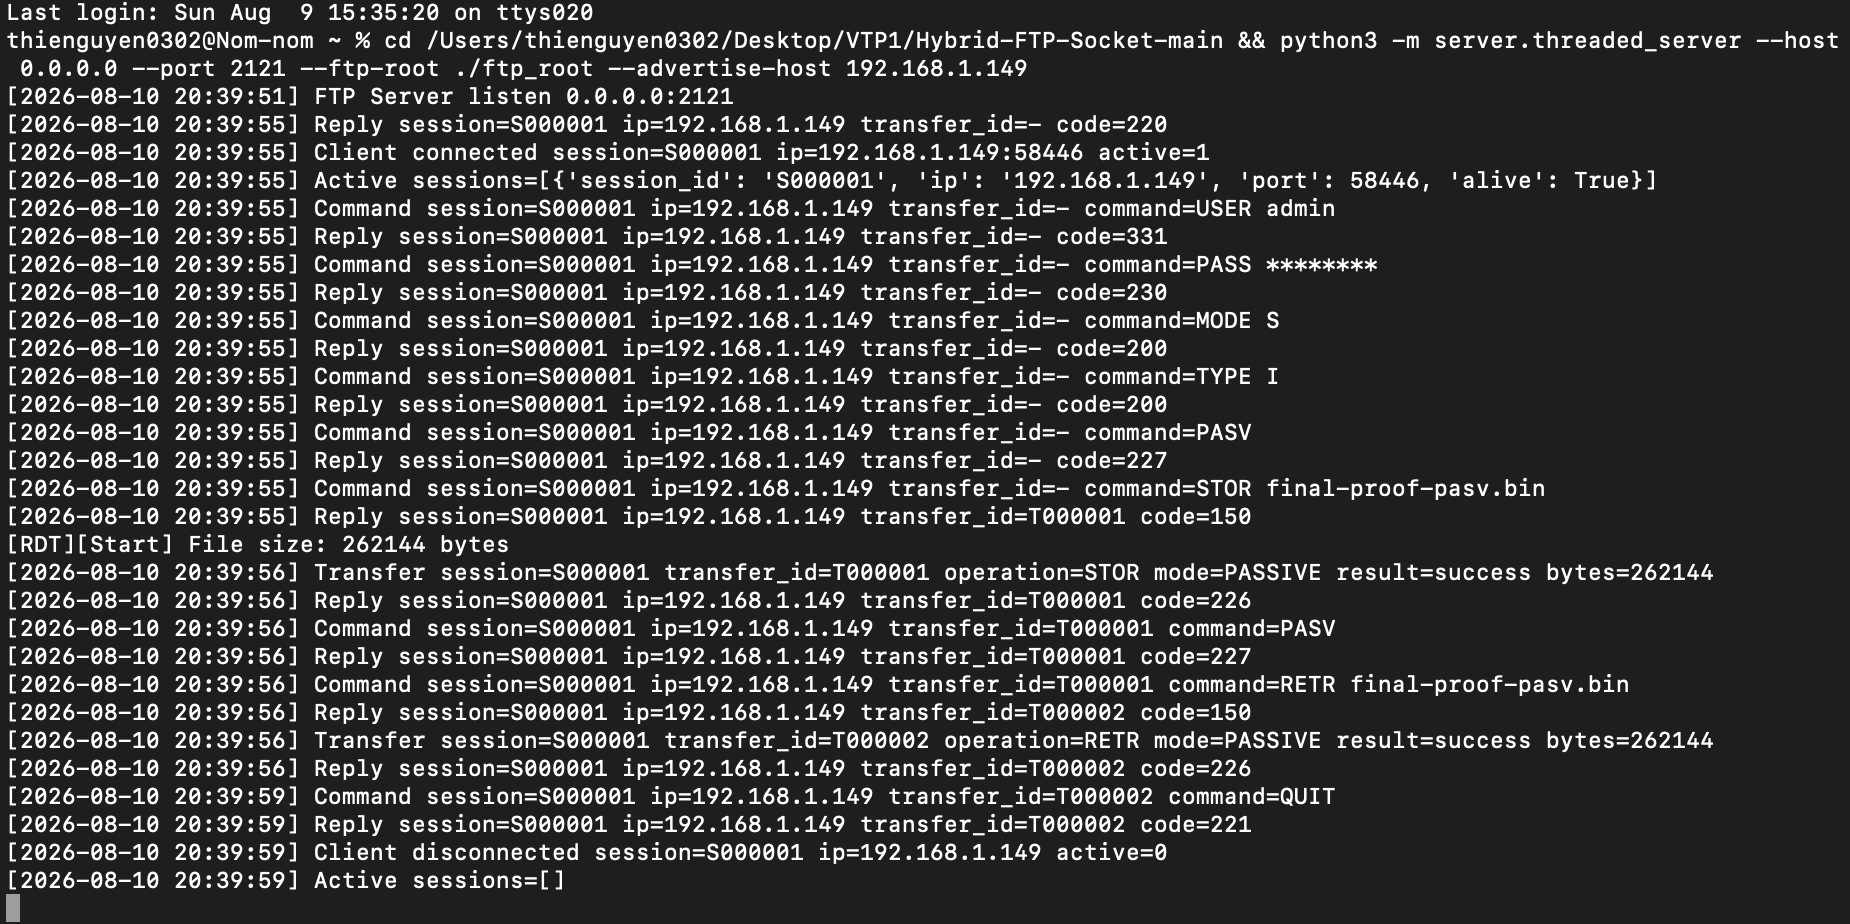
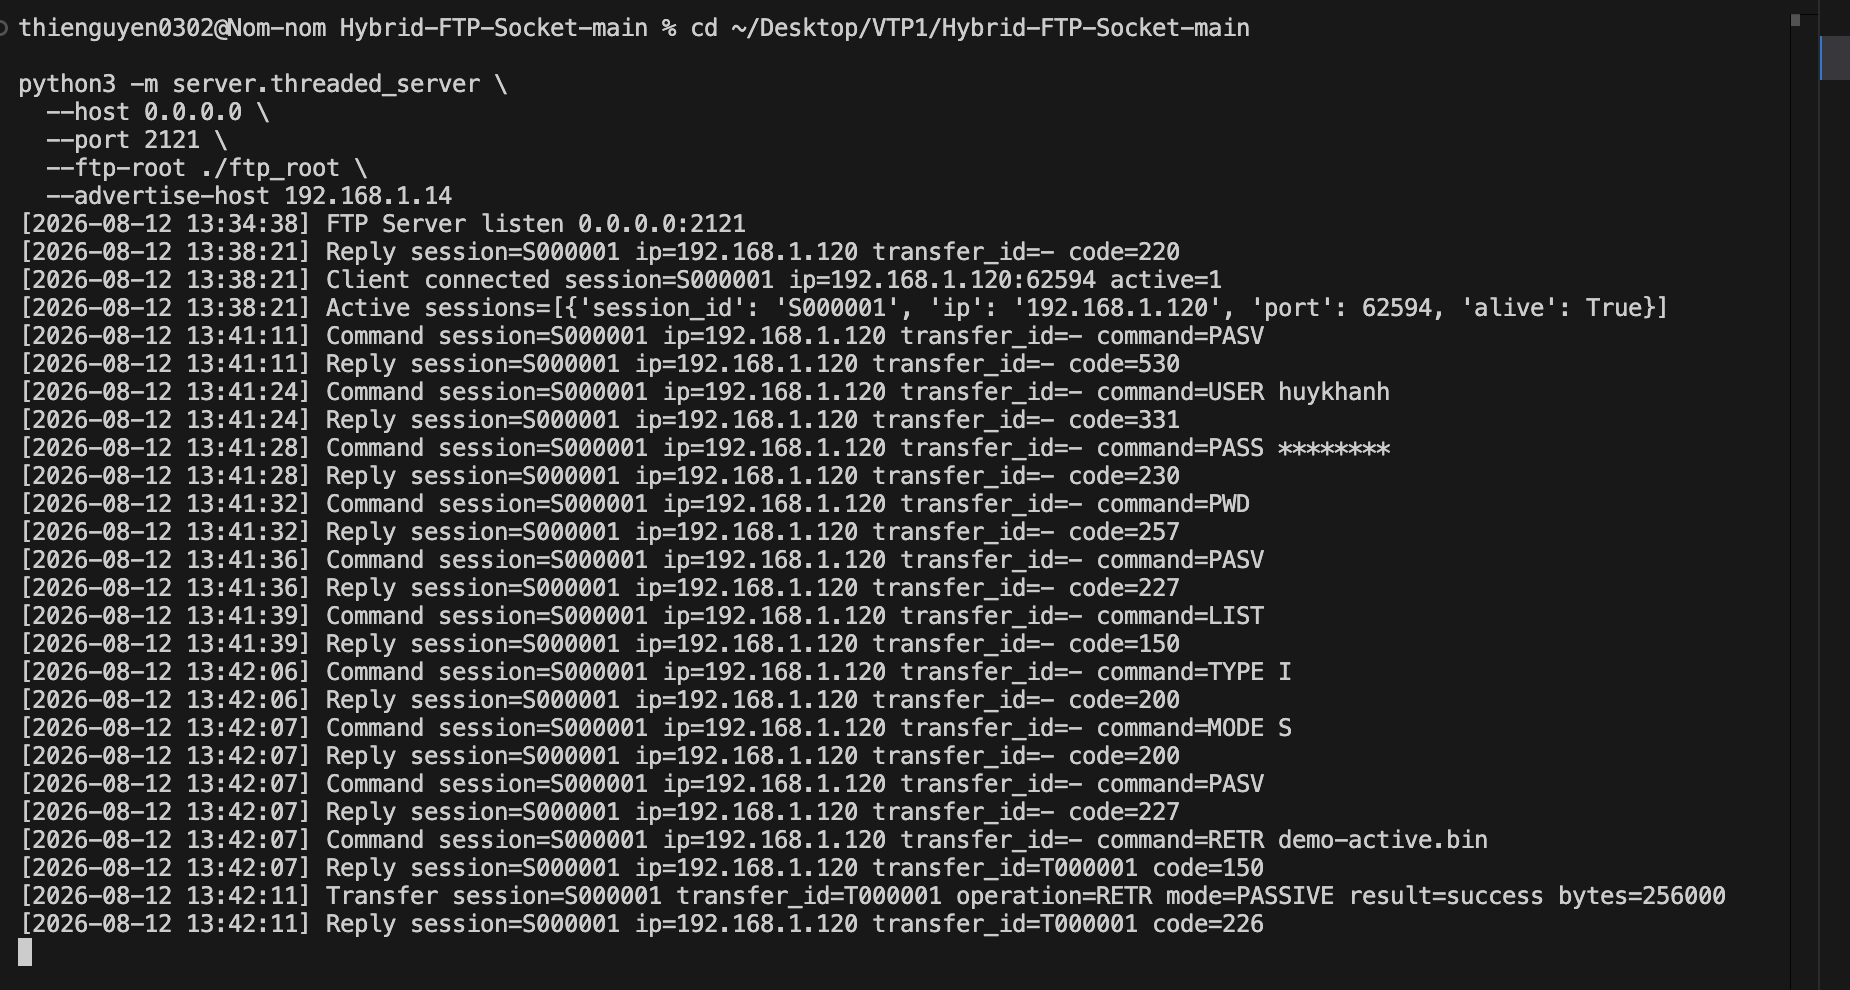
docs: update full regression evidence to 273 passed, add PASV/ACTIVE SHA-256 and concurrent-client evidence

Changed region(s): [[0.0, 0.0, 1.0, 1.0], [0.8627, 0.303, 0.8935, 0.3333]]

diff --git a/docs/report.md b/docs/report.md
@@ -493,7 +493,7 @@ three logs with these details; this summary does not replace their exact records
 
 ## 7. Application Demo Evidence
 
-![Full regression — 271 passed](evidence/screenshots/01-full-pytest-271-passed.png)
+![Full regression — 273 passed](evidence/screenshots/01-full-pytest-273-passed.png)
 *Figure: Full WSL2 regression passed; this verifies the integrated suite.*
 
 ### 7.1 TCP Control and Authentication (Role A)
@@ -673,8 +673,8 @@ with 256000 bytes, and clean disconnect with empty session list.*
 
 ### 7.3 UDP Transfer and End-to-End Evidence
 
-The recorded final regression command, `python3 -m pytest -q`, passed **271
-tests and 357 subtests in 192.88 seconds**. Focused verification additionally
+The recorded final regression command, `python3 -m pytest -q`, passed **273
+tests and 357 subtests in 182.14 seconds**. Focused verification additionally
 covered codec/command behavior (83 passed, 338 subtests), transfer-manager mode
 integration (12 passed), RDT B/C fault injection (19 passed, 11 subtests), and
 the FTP E2E mode matrix (13 passed, 8 subtests). These checks cover command and
@@ -799,7 +799,7 @@ only in `docs/project-status.md` and `docs/requirement-checklist.md`.
 | ABORT cancel/termination behavior | Verified | `tests/test_rdt.py::TestRDTProtocolLogic::test_receiver_aborts_on_abort_packet`, `docs/report-parts/technical/05-data-channel-rdt.md` |
 | Active/PASV upload/download and LAN SHA-256 integrity | Verified | `docs/evidence/final-lan-active-sha256.txt`, `docs/evidence/final-lan-pasv-sha256.txt` |
 | Post-handoff regression suite (pre-MODE baseline) | Verified | `python3 -m pytest -q` — 205 passed in 103.08s; Role C focused — 24 passed in 33.80s; `docs/evidence/final-code-fix-verification.md` |
-| MODE S/B/C functional codecs (RFC 959 §3.4) | Integrated; release evidence pending | `common/mode_codec.py`, `server/transfer_manager.py`, `client/ftp_client.py`; TYPE A/I filler, START MODE/TYPE mismatch rejection, atomic client/server paths; targeted 140 passed + 338 subtests, RDT fault 19 passed + 11 subtests, E2E 14 passed + 8 subtests, full 271 passed + 357 subtests in 192.88s; `docs/evidence/role-a-production-review-2026-08-10.md` |
+| MODE S/B/C functional codecs (RFC 959 §3.4) | Integrated; release evidence pending | `common/mode_codec.py`, `server/transfer_manager.py`, `client/ftp_client.py`; TYPE A/I filler, START MODE/TYPE mismatch rejection, atomic client/server paths; targeted 140 passed + 338 subtests, RDT fault 19 passed + 11 subtests, E2E 14 passed + 8 subtests, full 273 passed + 357 subtests in 182.14s; `docs/evidence/role-a-production-review-2026-08-10.md` |
 
 ### Final release note
 
@@ -818,7 +818,7 @@ only in `docs/project-status.md` and `docs/requirement-checklist.md`.
   decode-after-RDT integration, PASV/ACTIVE SHA-256 round-trips, STOU/APPE,
   concurrent different-mode clients and logical-byte progress are covered by
   codec/command/transfer-manager/fault-injection/E2E tests (full suite
-  **271 passed, 357 subtests in 192.88s**). The C production audit also verified
+  **273 passed, 357 subtests in 182.14s**). The C production audit also verified
   strict authentication, STAT/HELP/STOU behavior, buffered client framing,
   MODE/TYPE mismatch rejection and atomic client downloads. Role B review of
   START metadata and Role A MODE screenshots have been verified and integrated.

diff --git a/docs/screenshots.md b/docs/screenshots.md
@@ -6,7 +6,7 @@
 
 | # | File | Nội dung | Vị trí trong report.md |
 |---:|---|---|---|
-| 01 | `evidence/screenshots/01-full-pytest-271-passed.png` | Full WSL2 regression — **271 passed** | §7 (intro, figure full regression) |
+| 01 | `evidence/screenshots/01-full-pytest-273-passed.png` | Full WSL2 regression — **273 passed** | §7 (intro, figure full regression) |
 | 02 | `evidence/screenshots/02-lan-pasv-server-lifecycle.png` | LAN PASV server lifecycle (client sessions + luồng `150 → 226`) | §7.1 |
 | 03 | `evidence/screenshots/03-sha256-pasv-active.png` | So sánh SHA-256 PASV và ACTIVE (source/server/download khớp) | §7.3 |
 | 04 | `evidence/screenshots/04-three-pasv-clients.png` | Ba PASV client transfer độc lập không block nhau | §7.3 |
@@ -57,8 +57,9 @@ Mỗi ảnh được nhúng bằng block Markdown từ `docs/report.md` (đườ
 - Đã rename 2 file có khoảng trắng thừa đầu tên để link Markdown sạch:
   - ` 01-full-pytest-271-passed.png` → `01-full-pytest-271-passed.png`
   - ` 03-sha256-pasv-active.png` → `03-sha256-pasv-active.png`
-- Caption ảnh 01 dùng **271 passed** (khớp tên file thật và §8 report: full
-  **271 passed + 357 subtests in 192.88s**), không dùng 199 passed — 199 là
-  baseline lịch sử pre-MODE, không phản ánh screenshot hiện tại.
+- Caption ảnh 01 dùng **273 passed** (khớp tên file thật và §7/§8 report: full
+  **273 passed + 357 subtests in 182.14s**). Số 271 passed là bản chụp cũ trên
+  commit `43764fd` (Role A, `role-a-final-pytest.png`); file chụp mới ngày
+  12/08/2026 là **273 passed**.
 - Chi tiết GenAI usage được ghi trong `docs/genai-log-a.md` mục
   "Nhúng Evidence Screenshots vào Report §7".
